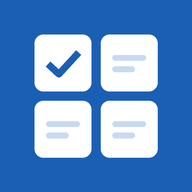
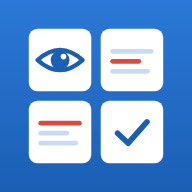
アプリ名を「見て覚える 介護福祉士 国家試験対策」に変更し、ストア用の素材を追加
- 画面・ホーム画面名（見て覚える）・マニフェスト・各ページの名前を変更
- 新しいアイコン（目と、赤字の重要語のカード）と起動画面
- store/ にストアの説明文、スクリーンショット（iPhone・Android 各6枚）、フィーチャーグラフィック、プライバシー回答の下書きを追加

Claude-Session: https://claude.ai/code/session_016zB87FXbD785uSkpdnPZnq

diff --git a/docs/index.html b/docs/index.html
@@ -3,8 +3,8 @@
 <head>
 <meta charset="utf-8">
 <meta name="viewport" content="width=device-width, initial-scale=1, viewport-fit=cover">
-<title>まとめ暗記 介護福祉士</title>
-<meta name="description" content="介護福祉士国家試験の重要用語を、カード一覧で繰り返し見て覚える学習アプリ">
+<title>見て覚える 介護福祉士 国家試験対策</title>
+<meta name="description" content="介護福祉士国家試験の重要用語を1画面のカードで見て覚える学習アプリ。過去問5年分（解説つき）と練習問題つき">
 <meta name="theme-color" content="#1b5fb5">
 <link rel="manifest" href="manifest.webmanifest">
 <link rel="icon" href="icon-192.png" type="image/png">
@@ -12,7 +12,7 @@
 <meta name="apple-mobile-web-app-capable" content="yes">
 <meta name="mobile-web-app-capable" content="yes">
 <meta name="apple-mobile-web-app-status-bar-style" content="black-translucent">
-<meta name="apple-mobile-web-app-title" content="まとめ暗記">
+<meta name="apple-mobile-web-app-title" content="見て覚える">
 <link rel="preconnect" href="https://fonts.googleapis.com">
 <link rel="preconnect" href="https://fonts.gstatic.com" crossorigin>
 <link rel="stylesheet" href="https://fonts.googleapis.com/css2?family=BIZ+UDPGothic:wght@400;700&display=swap">
@@ -5610,7 +5610,7 @@ window.KaigoStore = (function () {
     }).join("");
 
     return (
-      topbar("介護福祉士国家試験", "まとめ暗記", null) +
+      topbar("介護福祉士 国家試験対策", "見て覚える", null) +
       '<main class="content">' +
       '<section class="section"><h2 class="section__label">学習の進み具合</h2>' +
       '<div class="panel stats">' +
@@ -7048,7 +7048,7 @@ window.KaigoStore = (function () {
         label + "</span></span>" + icon("chev", "row__chev") + "</a>";
     };
     return (
-      topbar("まとめ暗記", "設定・このアプリについて", "home") +
+      topbar("見て覚える", "設定・このアプリについて", "home") +
       '<main class="content">' +
       '<section class="section"><h2 class="section__label">学習記録のバックアップ</h2><div class="panel set-panel">' +
       "<p>学習記録はこの端末の中だけに保存されています。機種変更やアプリの削除の前に書き出しておくと、新しい端末で読み込んで続きから使えます。</p>" +
@@ -7064,7 +7064,7 @@ window.KaigoStore = (function () {
       '<section class="section"><h2 class="section__label">このアプリについて</h2><div class="rows">' +
       link("privacy.html", "プライバシーポリシー") + link("terms.html", "利用規約・免責事項") + link("contact.html", "お問い合わせ") +
       "</div></section>" +
-      '<p class="notice">まとめ暗記 介護福祉士 ・ 教材データ 第' + esc(String(DATA.version)) + "版 ・ 収録 " + allTermIds().length + "語。" +
+      '<p class="notice">見て覚える 介護福祉士 国家試験対策 ・ 教材データ 第' + esc(String(DATA.version)) + "版 ・ 収録 " + allTermIds().length + "語。" +
       "国家試験の問題の著作権は社会福祉振興・試験センターに帰属します。本アプリは公的機関とは関係のない個人が提供するものです。</p>" +
       "</main>"
     );

diff --git a/docs/privacy.html b/docs/privacy.html
@@ -1,4 +1,4 @@
-<!doctype html><html lang="ja"><head><meta charset="utf-8"><meta name="viewport" content="width=device-width, initial-scale=1"><link rel="icon" href="icon-192.png"><title>プライバシーポリシー｜まとめ暗記 介護福祉士</title><style>
+<!doctype html><html lang="ja"><head><meta charset="utf-8"><meta name="viewport" content="width=device-width, initial-scale=1"><link rel="icon" href="icon-192.png"><title>プライバシーポリシー｜見て覚える 介護福祉士 国家試験対策</title><style>
 :root{--brand:#1b5fb5;--text:#1d2a3a;--muted:#586a82;--line:#dbe4ef;--bg:#ffffff}
 @media (prefers-color-scheme: dark){:root{--brand:#7fb0ff;--text:#e8eef7;--muted:#9db0c9;--line:#2a3a50;--bg:#0f1722}}
 *{box-sizing:border-box}body{margin:0;background:var(--bg);color:var(--text);font-family:"BIZ UDPGothic","Hiragino Sans","Noto Sans JP",sans-serif;line-height:1.75}
@@ -7,8 +7,8 @@ p,li{font-size:15px}.meta{color:var(--muted);font-size:13px;margin:0 0 20px}a{co
 </style></head><body><main>
 <a class="back" href="./">← アプリに戻る</a>
 <h1>プライバシーポリシー</h1>
-<p class="meta">まとめ暗記 介護福祉士　制定日：2026年11月3日</p>
-<p>「まとめ暗記 介護福祉士」（以下「本アプリ」）の提供者（以下「提供者」）は、利用者の情報を次のとおり取り扱います。</p>
+<p class="meta">見て覚える 介護福祉士 国家試験対策　制定日：2026年11月3日</p>
+<p>「見て覚える 介護福祉士 国家試験対策」（以下「本アプリ」）の提供者（以下「提供者」）は、利用者の情報を次のとおり取り扱います。</p>
 <h2>1. 本アプリが扱う情報</h2>
 <ul>
 <li><b>学習記録</b>：確認済みのカード、解答の正誤、過去問題の解答、表示の設定などです。これらは利用者の端末の中（ブラウザまたはアプリの保存領域）にだけ保存され、提供者のサーバーには送信されません。</li>

diff --git a/pwa/privacy.html b/pwa/privacy.html
@@ -1,4 +1,4 @@
-<!doctype html><html lang="ja"><head><meta charset="utf-8"><meta name="viewport" content="width=device-width, initial-scale=1"><link rel="icon" href="icon-192.png"><title>プライバシーポリシー｜まとめ暗記 介護福祉士</title><style>
+<!doctype html><html lang="ja"><head><meta charset="utf-8"><meta name="viewport" content="width=device-width, initial-scale=1"><link rel="icon" href="icon-192.png"><title>プライバシーポリシー｜見て覚える 介護福祉士 国家試験対策</title><style>
 :root{--brand:#1b5fb5;--text:#1d2a3a;--muted:#586a82;--line:#dbe4ef;--bg:#ffffff}
 @media (prefers-color-scheme: dark){:root{--brand:#7fb0ff;--text:#e8eef7;--muted:#9db0c9;--line:#2a3a50;--bg:#0f1722}}
 *{box-sizing:border-box}body{margin:0;background:var(--bg);color:var(--text);font-family:"BIZ UDPGothic","Hiragino Sans","Noto Sans JP",sans-serif;line-height:1.75}
@@ -7,8 +7,8 @@ p,li{font-size:15px}.meta{color:var(--muted);font-size:13px;margin:0 0 20px}a{co
 </style></head><body><main>
 <a class="back" href="./">← アプリに戻る</a>
 <h1>プライバシーポリシー</h1>
-<p class="meta">まとめ暗記 介護福祉士　制定日：2026年11月3日</p>
-<p>「まとめ暗記 介護福祉士」（以下「本アプリ」）の提供者（以下「提供者」）は、利用者の情報を次のとおり取り扱います。</p>
+<p class="meta">見て覚える 介護福祉士 国家試験対策　制定日：2026年11月3日</p>
+<p>「見て覚える 介護福祉士 国家試験対策」（以下「本アプリ」）の提供者（以下「提供者」）は、利用者の情報を次のとおり取り扱います。</p>
 <h2>1. 本アプリが扱う情報</h2>
 <ul>
 <li><b>学習記録</b>：確認済みのカード、解答の正誤、過去問題の解答、表示の設定などです。これらは利用者の端末の中（ブラウザまたはアプリの保存領域）にだけ保存され、提供者のサーバーには送信されません。</li>

diff --git a/src/app.js b/src/app.js
@@ -223,7 +223,7 @@
     }).join("");
 
     return (
-      topbar("介護福祉士国家試験", "まとめ暗記", null) +
+      topbar("介護福祉士 国家試験対策", "見て覚える", null) +
       '<main class="content">' +
       '<section class="section"><h2 class="section__label">学習の進み具合</h2>' +
       '<div class="panel stats">' +
@@ -1661,7 +1661,7 @@
         label + "</span></span>" + icon("chev", "row__chev") + "</a>";
     };
     return (
-      topbar("まとめ暗記", "設定・このアプリについて", "home") +
+      topbar("見て覚える", "設定・このアプリについて", "home") +
       '<main class="content">' +
       '<section class="section"><h2 class="section__label">学習記録のバックアップ</h2><div class="panel set-panel">' +
       "<p>学習記録はこの端末の中だけに保存されています。機種変更やアプリの削除の前に書き出しておくと、新しい端末で読み込んで続きから使えます。</p>" +
@@ -1677,7 +1677,7 @@
       '<section class="section"><h2 class="section__label">このアプリについて</h2><div class="rows">' +
       link("privacy.html", "プライバシーポリシー") + link("terms.html", "利用規約・免責事項") + link("contact.html", "お問い合わせ") +
       "</div></section>" +
-      '<p class="notice">まとめ暗記 介護福祉士 ・ 教材データ 第' + esc(String(DATA.version)) + "版 ・ 収録 " + allTermIds().length + "語。" +
+      '<p class="notice">見て覚える 介護福祉士 国家試験対策 ・ 教材データ 第' + esc(String(DATA.version)) + "版 ・ 収録 " + allTermIds().length + "語。" +
       "国家試験の問題の著作権は社会福祉振興・試験センターに帰属します。本アプリは公的機関とは関係のない個人が提供するものです。</p>" +
       "</main>"
     );

diff --git a/docs/terms.html b/docs/terms.html
@@ -1,4 +1,4 @@
-<!doctype html><html lang="ja"><head><meta charset="utf-8"><meta name="viewport" content="width=device-width, initial-scale=1"><link rel="icon" href="icon-192.png"><title>利用規約・免責事項｜まとめ暗記 介護福祉士</title><style>
+<!doctype html><html lang="ja"><head><meta charset="utf-8"><meta name="viewport" content="width=device-width, initial-scale=1"><link rel="icon" href="icon-192.png"><title>利用規約・免責事項｜見て覚える 介護福祉士 国家試験対策</title><style>
 :root{--brand:#1b5fb5;--text:#1d2a3a;--muted:#586a82;--line:#dbe4ef;--bg:#ffffff}
 @media (prefers-color-scheme: dark){:root{--brand:#7fb0ff;--text:#e8eef7;--muted:#9db0c9;--line:#2a3a50;--bg:#0f1722}}
 *{box-sizing:border-box}body{margin:0;background:var(--bg);color:var(--text);font-family:"BIZ UDPGothic","Hiragino Sans","Noto Sans JP",sans-serif;line-height:1.75}
@@ -7,7 +7,7 @@ p,li{font-size:15px}.meta{color:var(--muted);font-size:13px;margin:0 0 20px}a{co
 </style></head><body><main>
 <a class="back" href="./">← アプリに戻る</a>
 <h1>利用規約・免責事項</h1>
-<p class="meta">まとめ暗記 介護福祉士　制定日：2026年11月3日</p>
+<p class="meta">見て覚える 介護福祉士 国家試験対策　制定日：2026年11月3日</p>
 <h2>1. 本アプリについて</h2>
 <p>本アプリは、介護福祉士国家試験の学習を支援するための教材アプリです。公益財団法人社会福祉振興・試験センター、厚生労働省、その他の公的機関とは関係のない、個人が提供するものです。</p>
 <h2>2. 内容の正確性</h2>

diff --git a/pwa/terms.html b/pwa/terms.html
@@ -1,4 +1,4 @@
-<!doctype html><html lang="ja"><head><meta charset="utf-8"><meta name="viewport" content="width=device-width, initial-scale=1"><link rel="icon" href="icon-192.png"><title>利用規約・免責事項｜まとめ暗記 介護福祉士</title><style>
+<!doctype html><html lang="ja"><head><meta charset="utf-8"><meta name="viewport" content="width=device-width, initial-scale=1"><link rel="icon" href="icon-192.png"><title>利用規約・免責事項｜見て覚える 介護福祉士 国家試験対策</title><style>
 :root{--brand:#1b5fb5;--text:#1d2a3a;--muted:#586a82;--line:#dbe4ef;--bg:#ffffff}
 @media (prefers-color-scheme: dark){:root{--brand:#7fb0ff;--text:#e8eef7;--muted:#9db0c9;--line:#2a3a50;--bg:#0f1722}}
 *{box-sizing:border-box}body{margin:0;background:var(--bg);color:var(--text);font-family:"BIZ UDPGothic","Hiragino Sans","Noto Sans JP",sans-serif;line-height:1.75}
@@ -7,7 +7,7 @@ p,li{font-size:15px}.meta{color:var(--muted);font-size:13px;margin:0 0 20px}a{co
 </style></head><body><main>
 <a class="back" href="./">← アプリに戻る</a>
 <h1>利用規約・免責事項</h1>
-<p class="meta">まとめ暗記 介護福祉士　制定日：2026年11月3日</p>
+<p class="meta">見て覚える 介護福祉士 国家試験対策　制定日：2026年11月3日</p>
 <h2>1. 本アプリについて</h2>
 <p>本アプリは、介護福祉士国家試験の学習を支援するための教材アプリです。公益財団法人社会福祉振興・試験センター、厚生労働省、その他の公的機関とは関係のない、個人が提供するものです。</p>
 <h2>2. 内容の正確性</h2>

diff --git a/docs/contact.html b/docs/contact.html
@@ -1,4 +1,4 @@
-<!doctype html><html lang="ja"><head><meta charset="utf-8"><meta name="viewport" content="width=device-width, initial-scale=1"><link rel="icon" href="icon-192.png"><title>お問い合わせ｜まとめ暗記 介護福祉士</title><style>
+<!doctype html><html lang="ja"><head><meta charset="utf-8"><meta name="viewport" content="width=device-width, initial-scale=1"><link rel="icon" href="icon-192.png"><title>お問い合わせ｜見て覚える 介護福祉士 国家試験対策</title><style>
 :root{--brand:#1b5fb5;--text:#1d2a3a;--muted:#586a82;--line:#dbe4ef;--bg:#ffffff}
 @media (prefers-color-scheme: dark){:root{--brand:#7fb0ff;--text:#e8eef7;--muted:#9db0c9;--line:#2a3a50;--bg:#0f1722}}
 *{box-sizing:border-box}body{margin:0;background:var(--bg);color:var(--text);font-family:"BIZ UDPGothic","Hiragino Sans","Noto Sans JP",sans-serif;line-height:1.75}
@@ -7,7 +7,7 @@ p,li{font-size:15px}.meta{color:var(--muted);font-size:13px;margin:0 0 20px}a{co
 </style></head><body><main>
 <a class="back" href="./">← アプリに戻る</a>
 <h1>お問い合わせ</h1>
-<p class="meta">まとめ暗記 介護福祉士</p>
+<p class="meta">見て覚える 介護福祉士 国家試験対策</p>
 <p>内容のまちがい、制度改正の反映もれ、不具合、ご要望などは、次の窓口からお知らせください。</p>
 <h2>お問い合わせ窓口</h2>
 <p><a href="https://github.com/nasutakako/matome-anki/issues/new" target="_blank" rel="noopener">お問い合わせフォーム（GitHub）</a></p>

diff --git a/pwa/contact.html b/pwa/contact.html
@@ -1,4 +1,4 @@
-<!doctype html><html lang="ja"><head><meta charset="utf-8"><meta name="viewport" content="width=device-width, initial-scale=1"><link rel="icon" href="icon-192.png"><title>お問い合わせ｜まとめ暗記 介護福祉士</title><style>
+<!doctype html><html lang="ja"><head><meta charset="utf-8"><meta name="viewport" content="width=device-width, initial-scale=1"><link rel="icon" href="icon-192.png"><title>お問い合わせ｜見て覚える 介護福祉士 国家試験対策</title><style>
 :root{--brand:#1b5fb5;--text:#1d2a3a;--muted:#586a82;--line:#dbe4ef;--bg:#ffffff}
 @media (prefers-color-scheme: dark){:root{--brand:#7fb0ff;--text:#e8eef7;--muted:#9db0c9;--line:#2a3a50;--bg:#0f1722}}
 *{box-sizing:border-box}body{margin:0;background:var(--bg);color:var(--text);font-family:"BIZ UDPGothic","Hiragino Sans","Noto Sans JP",sans-serif;line-height:1.75}
@@ -7,7 +7,7 @@ p,li{font-size:15px}.meta{color:var(--muted);font-size:13px;margin:0 0 20px}a{co
 </style></head><body><main>
 <a class="back" href="./">← アプリに戻る</a>
 <h1>お問い合わせ</h1>
-<p class="meta">まとめ暗記 介護福祉士</p>
+<p class="meta">見て覚える 介護福祉士 国家試験対策</p>
 <p>内容のまちがい、制度改正の反映もれ、不具合、ご要望などは、次の窓口からお知らせください。</p>
 <h2>お問い合わせ窓口</h2>
 <p><a href="https://github.com/nasutakako/matome-anki/issues/new" target="_blank" rel="noopener">お問い合わせフォーム（GitHub）</a></p>

diff --git a/index.html b/index.html
@@ -3,7 +3,7 @@
 <head>
   <meta charset="utf-8">
   <meta name="viewport" content="width=device-width, initial-scale=1, viewport-fit=cover">
-  <title>まとめ暗記 介護福祉士</title>
+  <title>見て覚える 介護福祉士 国家試験対策</title>
   <link rel="preconnect" href="https://fonts.googleapis.com">
   <link rel="preconnect" href="https://fonts.gstatic.com" crossorigin>
   <link rel="stylesheet" href="https://fonts.googleapis.com/css2?family=BIZ+UDPGothic:wght@400;700&display=swap">

diff --git a/docs/sw.js b/docs/sw.js
@@ -1,6 +1,6 @@
 // オフラインでも開けるよう、アプリ本体をキャッシュする
 // 教材や画面を更新したら VERSION を上げる（古いキャッシュが入れ替わる）
-const VERSION = "v12";
+const VERSION = "v13";
 const CACHE = "matome-anki-" + VERSION;
 const FILES = ["./", "./index.html", "./manifest.webmanifest", "./icon-192.png", "./icon-512.png", "./apple-touch-icon.png"];
 

diff --git a/pwa/sw.js b/pwa/sw.js
@@ -1,6 +1,6 @@
 // オフラインでも開けるよう、アプリ本体をキャッシュする
 // 教材や画面を更新したら VERSION を上げる（古いキャッシュが入れ替わる）
-const VERSION = "v12";
+const VERSION = "v13";
 const CACHE = "matome-anki-" + VERSION;
 const FILES = ["./", "./index.html", "./manifest.webmanifest", "./icon-192.png", "./icon-512.png", "./apple-touch-icon.png"];
 

diff --git a/store/listing.md b/store/listing.md
@@ -1,0 +1,174 @@
+# ストア掲載情報（App Store／Google Play）
+
+アプリ：見て覚える 介護福祉士 国家試験対策
+最終更新：2026年11月3日
+
+---
+
+## 共通
+
+| 項目 | 内容 |
+|---|---|
+| アプリ名（30文字まで） | 見て覚える 介護福祉士 国家試験対策 |
+| ホーム画面に出る名前 | 見て覚える |
+| カテゴリ | 教育（サブカテゴリ：参考資料） |
+| 対象年齢 | 4+（App Store）／全年齢（Google Play）。暴力・性的表現なし。広告はあり |
+| 価格 | 無料（アプリ内課金：広告の非表示・買い切り） |
+| プライバシーポリシー | https://nasutakako.github.io/matome-anki/privacy.html |
+| サポートURL | https://nasutakako.github.io/matome-anki/contact.html |
+| マーケティングURL | https://nasutakako.github.io/matome-anki/ |
+| 利用規約 | https://nasutakako.github.io/matome-anki/terms.html |
+
+---
+
+## App Store
+
+### サブタイトル（30文字まで）
+重要語が1画面に！過去問5年分＋解説つき
+
+### プロモーションテキスト（170文字まで。審査なしで変更できる）
+第34〜38回の過去問625問すべてに解説がつきました。解くほど新しい問題が出る「オリジナル問題」で、本試験と同じ125問構成の練習がいつでもできます。
+
+### キーワード（100文字まで・カンマ区切り・アプリ名の語は入れない）
+過去問,介護,ケアワーカー,国試,暗記,用語,要点,問題集,認知症,生活支援技術,社会福祉,障害,医療的ケア,模試,資格,勉強,単語帳
+
+### 説明文
+（下の「説明文（共通）」を使う）
+
+---
+
+## Google Play
+
+### 簡単な説明（80文字まで）
+重要用語を1画面のカードで見て覚える。過去問5年分（解説つき）と、解くほど新しい問題が出る練習問題で、介護福祉士国家試験に合格
+
+### 詳しい説明
+（下の「説明文（共通）」を使う）
+
+---
+
+## 説明文（共通・4000文字まで）
+
+介護福祉士国家試験の重要用語を、1画面にまとめて「見て覚える」学習アプリです。
+テーマごとの用語がカードで並び、大事な言葉は赤字で表示。写真を見るように、配置ごと目で覚えられます。
+
+■ こんな人におすすめ
+・テキストを読み込む時間がとれない
+・用語がなかなか覚えられない
+・過去問を解いても、解説がなくて復習しにくい
+・すきま時間にスマホで勉強したい
+
+■ 基礎学習：1画面で見て覚える
+・全12科目・約500語を、試験に出るテーマごとに1画面にまとめました
+・「カードで覚える」：用語を見て意味を思い出し、タップで説明を確認
+・「説明つきで読む」：説明と覚えるポイントを1画面で通読
+・制度の名前、ひっかけになりやすい語（健側・患側など）、数字、「医療職に任せる」などの大事なところを赤字で表示
+・出題の多い内容だけを収録。第34〜38回の本試験の出題と照らし合わせて作っています
+
+■ 基礎問題：5択でチェック
+・「用語→説明」「説明→用語」の5択問題を自動で出題
+・正解と一語だけ違う「ひっかけ」の選択肢で、本番の2択で迷う力をきたえます
+
+■ 過去問題：5年分・625問に解説つき
+・第34〜38回の本試験を年度別に収録（問題は公式PDFなどで確認し、答えをマークシートで選ぶ形式）
+・自動採点と、合格基準（合格点・全科目群での得点）の判定
+・全問に、正答の要旨と、まちがえやすい選択肢のポイントを解説
+
+■ オリジナル問題：解くほど新しい問題が出る
+・本試験と同じ13科目・125問の構成
+・正解した問題は新しい問題に入れ替わり、まちがえた問題は正解するまで残ります
+・終わりがないので、練習をどんどん続けられます
+
+■ 復習と分析
+・過去に間違えた問題だけを、科目・テーマごとに解き直し
+・苦手傾向分析：正答率の低いテーマや、繰り返し間違えている用語を自動で示します
+
+■ そのほか
+・通信なしでも使えます
+・学習記録はスマホの中だけに保存。書き出し・読み込みで機種変更にも対応
+・ダークモード対応
+
+■ 広告について
+学習の区切り（問題の結果画面など）で広告が表示されることがあります。買い切りの購入で、広告を非表示にできます。
+
+※本アプリは個人が提供する学習アプリで、公益財団法人社会福祉振興・試験センター、厚生労働省とは関係ありません。
+※国家試験の問題の著作権は社会福祉振興・試験センターに帰属します。本アプリは試験問題を収録していません。
+※内容は最新の法令・公式資料とあわせてご確認ください。
+
+---
+
+## 新機能（最初のリリース）
+初めてのリリースです。
+
+---
+
+## スクリーンショット
+
+| 順 | ファイル | 見出し |
+|---|---|---|
+| 1 | 1_read.png | 重要語が赤字でひと目で／1画面にまとめて「見て覚える」 |
+| 2 | 2_sheet.png | タップして説明を確認／覚えるポイントもいっしょに |
+| 3 | 3_explain.png | 過去問5年分・625問／全問に解説つき |
+| 4 | 4_question.png | 解くほど新しい問題が出る／本試験と同じ125問構成の練習問題 |
+| 5 | 5_analysis.png | 苦手を自動で分析／重点的に勉強するテーマがわかる |
+| 6 | 6_home.png | 通信なしでも使える／学習記録はスマホの中に保存 |
+
+- App Store：`screenshots/ios/`（1320×2868。6.9インチ用。6.5インチ以下は自動で縮小される）
+- Google Play：`screenshots/android/`（1080×1920）
+- Google Play のフィーチャーグラフィック：`android-feature-graphic-1024x500.png`
+
+## アイコン・起動画面
+
+| ファイル | 用途 |
+|---|---|
+| `ios-app-icon-1024.png` | App Store のアイコン（1024×1024・透明なし） |
+| `android-icon-512.png` | Google Play のアイコン（512×512） |
+| `assets/icon-only.png` ほか | アプリ本体のアイコン・起動画面の元画像（Capacitor の `@capacitor/assets` でまとめて各サイズを作る） |
+
+---
+
+## アプリ内課金
+
+| 項目 | 内容 |
+|---|---|
+| 種類 | 非消耗型（App Store）／買い切りのアプリ内アイテム（Google Play） |
+| 商品ID（案） | `remove_ads` |
+| 表示名 | 広告の非表示 |
+| 説明 | 広告が表示されなくなります（買い切り） |
+| 価格 | 未定（例：480円〜610円） |
+
+---
+
+## プライバシーの回答（下書き）
+
+アプリ自体は個人情報を集めず、学習記録は端末の中だけに保存する。広告（Google AdMob）が次のデータを扱う。
+最終的には、AdMob の「Google Play のデータ セーフティ」「Apple のプライバシー詳細」のガイドと、実際に入れる SDK のバージョンに合わせて確認する。
+
+### Google Play：データ セーフティ
+- データを収集・共有するか：はい（広告 SDK による）
+- 収集・共有するデータ
+  - デバイスまたはその他の ID（広告ID）：収集・共有／目的：広告・マーケティング、分析、不正防止
+  - おおよその位置情報（IPアドレスから推定）：収集・共有／目的：広告、不正防止
+  - アプリのアクティビティ（広告の表示・タップ）：収集／目的：広告、分析
+  - アプリの情報とパフォーマンス（クラッシュログ・診断）：収集／目的：分析、不正防止
+- 転送時の暗号化：はい
+- データの削除をリクエストできるか：アカウントがないため、該当なし（広告IDは端末の設定でリセット・削除できる）
+- 子ども向けか：いいえ
+
+### App Store：App のプライバシー
+- トラッキングに使用されるデータ：ID（デバイスID）※ユーザーが「トラッキングを許可」した場合のみ
+- ユーザーに関連付けられないデータ
+  - ID（デバイスID）
+  - 使用状況データ（製品の操作・広告データ）
+  - 位置情報（おおよその場所）
+  - 診断（クラッシュデータ・パフォーマンスデータ）
+- App Tracking Transparency の説明文（案）：
+  「広告をあなたの興味に合わせて表示するために使用します。許可しなくても、すべての機能を使えます。」
+
+---
+
+## 審査メモ（App Review への説明・案）
+- 本アプリは介護福祉士国家試験の学習アプリです。ログインは不要で、すべての機能をすぐに確認できます。
+- 学習データは端末内（WebView のストレージ）に保存し、外部に送信しません。
+- 過去問題は、試験問題を収録せず、公式に公開されている PDF などへのリンクと、公表された正答による採点・独自の解説を提供しています。
+- 広告は区切りの画面でのみ、5分以上の間隔をあけて表示します。アプリ内課金で非表示にできます。
